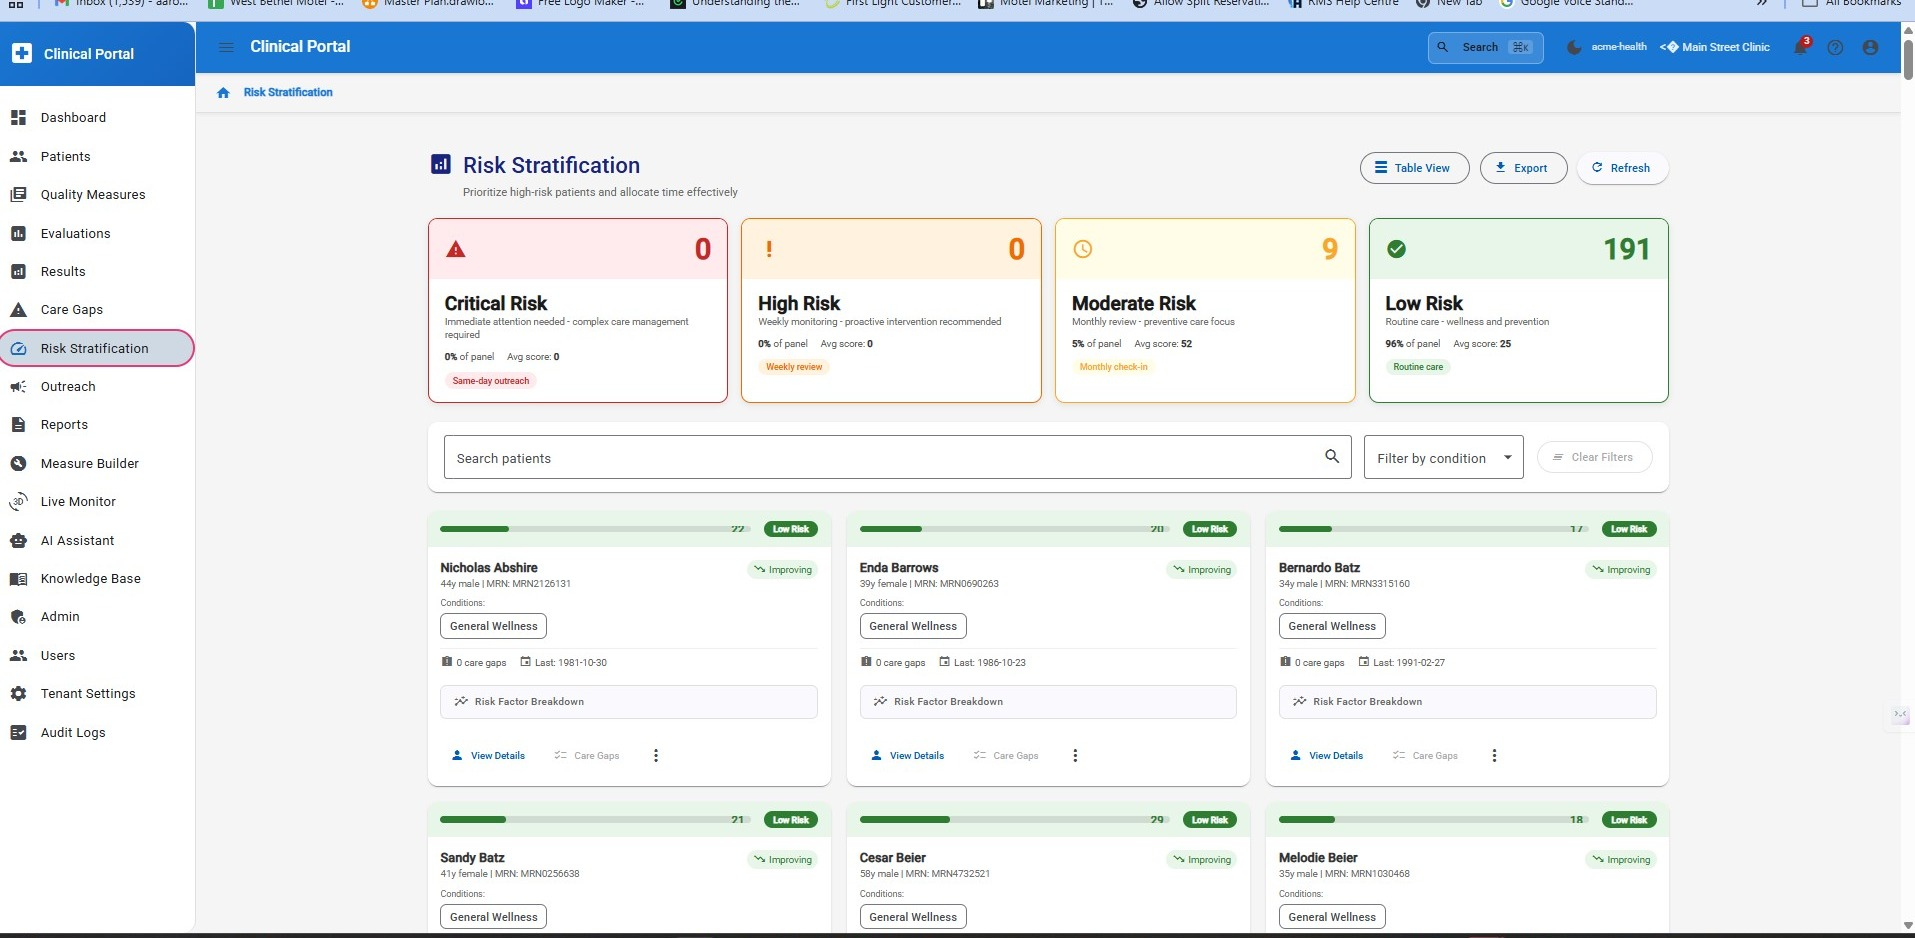
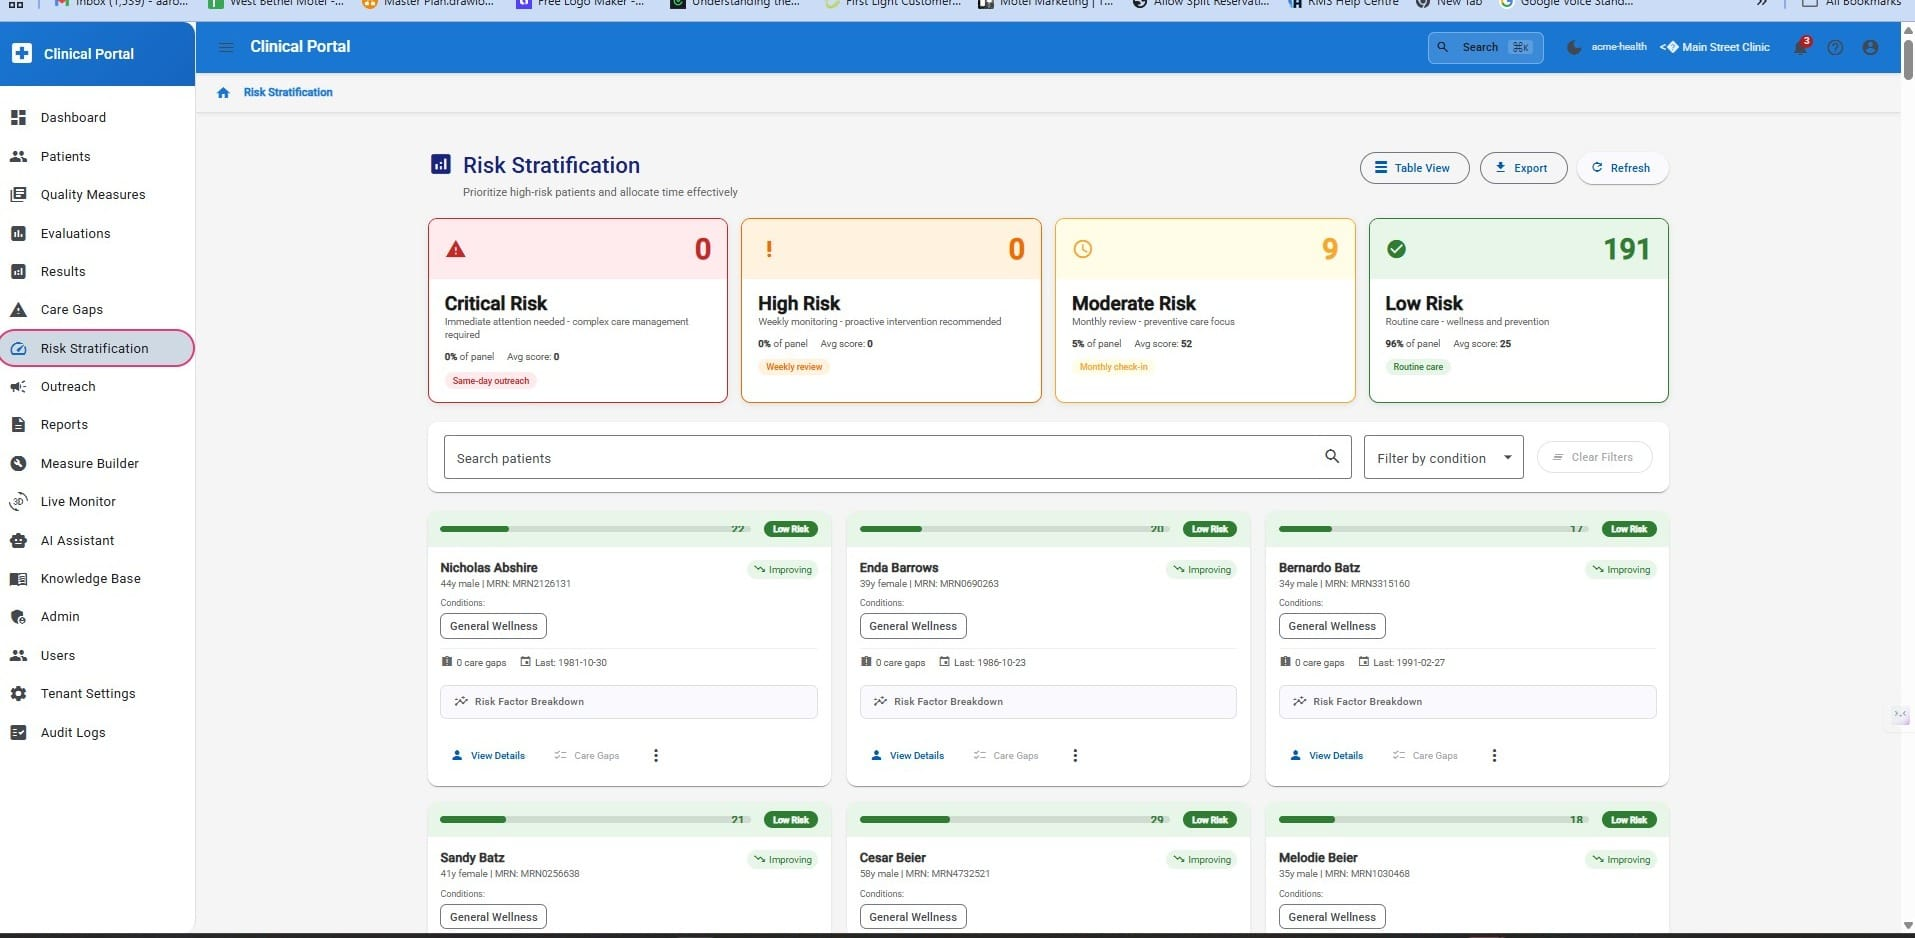
perf(landing): optimize images, fix SEO canonicals, lazy-load reCAPTCHA
Image optimization (41.5% reduction):
- Convert 19 PNGs to JPG (screenshots are photos, no transparency needed)
- Recompress 8 JPGs with mozjpeg quality 80-85
- Total: 5.02 MB → 2.94 MB (-2.09 MB)

SEO canonical fix:
- Add per-page canonical URLs to 16 subpages
- Previously all pages inherited canonical: '/' from root layout
- Search engines will now correctly index each page independently

Performance - lazy-load reCAPTCHA:
- Remove reCAPTCHA from root layout (loaded on every page, 182KB unused JS)
- Add RecaptchaScript component to form page layouts only
- Affects: /contact, /schedule, /demo, /downloads
- Non-form pages save ~182KB JS and ~340ms render time

diff --git a/landing-page-v0/lib/constants.ts b/landing-page-v0/lib/constants.ts
@@ -111,22 +111,22 @@ export const SEGMENT_SCREENSHOTS: Record<string, SegmentScreenshots[]> = {
     {
       role: 'CMO Dashboard',
       screenshots: [
-        { src: '/images/screenshots/cmo/cmo-01-dashboard.png', alt: 'CMO Dashboard overview', title: 'Executive Dashboard', description: 'Real-time quality KPIs and measure performance' },
-        { src: '/images/screenshots/cmo/cmo-02-quality-measures.png', alt: 'Quality measures list', title: 'Quality Measures', description: 'HEDIS measure library with compliance tracking' },
+        { src: '/images/screenshots/cmo/cmo-01-dashboard.jpg', alt: 'CMO Dashboard overview', title: 'Executive Dashboard', description: 'Real-time quality KPIs and measure performance' },
+        { src: '/images/screenshots/cmo/cmo-02-quality-measures.jpg', alt: 'Quality measures list', title: 'Quality Measures', description: 'HEDIS measure library with compliance tracking' },
       ],
     },
     {
       role: 'Quality Analyst',
       screenshots: [
-        { src: '/images/screenshots/quality-analyst/quality-analyst-04-run-evaluation.png', alt: 'Run evaluation', title: 'Measure Evaluation', description: 'One-click HEDIS measure evaluation' },
-        { src: '/images/screenshots/quality-analyst/quality-analyst-06-results-pass-fail.png', alt: 'Results pass/fail', title: 'Evaluation Results', description: 'Pass/fail compliance scoring with drilldowns' },
+        { src: '/images/screenshots/quality-analyst/quality-analyst-04-run-evaluation.jpg', alt: 'Run evaluation', title: 'Measure Evaluation', description: 'One-click HEDIS measure evaluation' },
+        { src: '/images/screenshots/quality-analyst/quality-analyst-06-results-pass-fail.jpg', alt: 'Results pass/fail', title: 'Evaluation Results', description: 'Pass/fail compliance scoring with drilldowns' },
       ],
     },
     {
       role: 'Data Analyst',
       screenshots: [
-        { src: '/images/screenshots/data-analyst/data-analyst-02-risk-stratification.png', alt: 'Risk stratification', title: 'Risk Stratification', description: 'Population-level risk scoring and cohort analysis' },
-        { src: '/images/screenshots/data-analyst/data-analyst-04-quality-constellation.png', alt: 'Quality constellation', title: 'Quality Constellation', description: 'Multi-dimensional measure visualization' },
+        { src: '/images/screenshots/data-analyst/data-analyst-02-risk-stratification.jpg', alt: 'Risk stratification', title: 'Risk Stratification', description: 'Population-level risk scoring and cohort analysis' },
+        { src: '/images/screenshots/data-analyst/data-analyst-04-quality-constellation.jpg', alt: 'Quality constellation', title: 'Quality Constellation', description: 'Multi-dimensional measure visualization' },
       ],
     },
   ],
@@ -134,22 +134,22 @@ export const SEGMENT_SCREENSHOTS: Record<string, SegmentScreenshots[]> = {
     {
       role: 'Provider',
       screenshots: [
-        { src: '/images/screenshots/provider/provider-01-pre-visit.png', alt: 'Pre-visit summary', title: 'Pre-Visit Summary', description: 'Care gaps and recommendations before patient arrives' },
-        { src: '/images/screenshots/provider/provider-06-care-gaps.png', alt: 'Provider care gaps', title: 'Point-of-Care Gaps', description: 'Real-time care gap alerts during patient visit' },
+        { src: '/images/screenshots/provider/provider-01-pre-visit.jpg', alt: 'Pre-visit summary', title: 'Pre-Visit Summary', description: 'Care gaps and recommendations before patient arrives' },
+        { src: '/images/screenshots/provider/provider-06-care-gaps.jpg', alt: 'Provider care gaps', title: 'Point-of-Care Gaps', description: 'Real-time care gap alerts during patient visit' },
       ],
     },
     {
       role: 'Care Manager',
       screenshots: [
-        { src: '/images/screenshots/care-manager/care-manager-02-care-gaps-table.png', alt: 'Care gaps table', title: 'Care Gap Worklist', description: 'Priority-based worklist for care gap closure' },
-        { src: '/images/screenshots/care-manager/care-manager-06-intervention-dialog.png', alt: 'Intervention dialog', title: 'Intervention Dialog', description: 'Document interventions and close gaps' },
+        { src: '/images/screenshots/care-manager/care-manager-02-care-gaps-table.jpg', alt: 'Care gaps table', title: 'Care Gap Worklist', description: 'Priority-based worklist for care gap closure' },
+        { src: '/images/screenshots/care-manager/care-manager-06-intervention-dialog.jpg', alt: 'Intervention dialog', title: 'Intervention Dialog', description: 'Document interventions and close gaps' },
       ],
     },
     {
       role: 'Admin',
       screenshots: [
-        { src: '/images/screenshots/admin/admin-05-audit-logs.png', alt: 'Audit logs', title: 'Audit Logs', description: 'HIPAA-compliant audit trail for all PHI access' },
-        { src: '/images/screenshots/admin/admin-03-user-management.png', alt: 'User management', title: 'User Management', description: 'Role-based access control and user provisioning' },
+        { src: '/images/screenshots/admin/admin-05-audit-logs.jpg', alt: 'Audit logs', title: 'Audit Logs', description: 'HIPAA-compliant audit trail for all PHI access' },
+        { src: '/images/screenshots/admin/admin-03-user-management.jpg', alt: 'User management', title: 'User Management', description: 'Role-based access control and user provisioning' },
       ],
     },
   ],
@@ -157,22 +157,22 @@ export const SEGMENT_SCREENSHOTS: Record<string, SegmentScreenshots[]> = {
     {
       role: 'Provider',
       screenshots: [
-        { src: '/images/screenshots/provider/provider-01-pre-visit.png', alt: 'Pre-visit summary', title: 'Pre-Visit Summary', description: 'Care gaps surfaced before patient arrives' },
-        { src: '/images/screenshots/provider/provider-07-care-recommendations.png', alt: 'Care recommendations', title: 'Care Recommendations', description: 'Evidence-based care recommendations at the point of care' },
+        { src: '/images/screenshots/provider/provider-01-pre-visit.jpg', alt: 'Pre-visit summary', title: 'Pre-Visit Summary', description: 'Care gaps surfaced before patient arrives' },
+        { src: '/images/screenshots/provider/provider-07-care-recommendations.jpg', alt: 'Care recommendations', title: 'Care Recommendations', description: 'Evidence-based care recommendations at the point of care' },
       ],
     },
     {
       role: 'Care Manager',
       screenshots: [
-        { src: '/images/screenshots/care-manager/care-manager-01-dashboard-overview.png', alt: 'Care manager dashboard', title: 'Care Manager Dashboard', description: 'Population overview with gap closure tracking' },
-        { src: '/images/screenshots/care-manager/care-manager-05-gap-detail.png', alt: 'Gap detail', title: 'Gap Detail', description: 'Full clinical context for care gap closure' },
+        { src: '/images/screenshots/care-manager/care-manager-01-dashboard-overview.jpg', alt: 'Care manager dashboard', title: 'Care Manager Dashboard', description: 'Population overview with gap closure tracking' },
+        { src: '/images/screenshots/care-manager/care-manager-05-gap-detail.jpg', alt: 'Gap detail', title: 'Gap Detail', description: 'Full clinical context for care gap closure' },
       ],
     },
     {
       role: 'Quality Analyst',
       screenshots: [
-        { src: '/images/screenshots/quality-analyst/quality-analyst-01-measures-list.png', alt: 'Measures list', title: 'Measure Library', description: 'Full HEDIS measure library with evaluation status' },
-        { src: '/images/screenshots/quality-analyst/quality-analyst-08-qrda-export.png', alt: 'QRDA export', title: 'QRDA Export', description: 'CMS-ready quality reporting export' },
+        { src: '/images/screenshots/quality-analyst/quality-analyst-01-measures-list.jpg', alt: 'Measures list', title: 'Measure Library', description: 'Full HEDIS measure library with evaluation status' },
+        { src: '/images/screenshots/quality-analyst/quality-analyst-08-qrda-export.jpg', alt: 'QRDA export', title: 'QRDA Export', description: 'CMS-ready quality reporting export' },
       ],
     },
   ],

diff --git a/landing-page-v0/app/platform/page.tsx b/landing-page-v0/app/platform/page.tsx
@@ -21,6 +21,7 @@ import { CAPABILITIES } from '../../lib/constants'
 export const metadata: Metadata = {
   title: 'HDIM Platform - Complete Healthcare Quality Measurement Capabilities',
   description: 'All platform capabilities: HEDIS measures, care gap detection, FHIR R4 integration, revenue cycle, custom measure builder, and enterprise security.',
+  alternates: { canonical: '/platform' },
 }
 
 const CAPABILITY_ICONS: Record<string, React.ElementType> = {
@@ -148,7 +149,7 @@ export default function PlatformPage() {
                 columns: 3,
                 screenshots: [
                   {
-                    src: "/images/dashboard-modern/07-patient-management.png",
+                    src: "/images/dashboard-modern/07-patient-management.jpg",
                     alt: "Patient Management view",
                     width: 1918,
                     height: 920,

diff --git a/landing-page-v0/app/about/page.tsx b/landing-page-v0/app/about/page.tsx
@@ -16,6 +16,7 @@ import ScreenshotGallery from '../components/ScreenshotLightbox'
 export const metadata: Metadata = {
   title: 'About Us | HDIM - Healthcare Data in Motion',
   description: 'Learn about HDIM\'s mission to build healthcare software that saves lives through better quality measurement and care gap detection.',
+  alternates: { canonical: '/about' },
 }
 
 const values = [
@@ -263,7 +264,7 @@ export default function AboutPage() {
                     description: "Urgency-sorted alerts with patient slide-out panel",
                   },
                   {
-                    src: "/images/dashboard-modern/09-reports-hub.png",
+                    src: "/images/dashboard-modern/09-reports-hub.jpg",
                     alt: "Reports Hub",
                     width: 1918,
                     height: 920,

diff --git a/landing-page-v0/app/layout.tsx b/landing-page-v0/app/layout.tsx
@@ -4,7 +4,6 @@ import Script from 'next/script'
 import { Analytics } from '@vercel/analytics/react'
 import './globals.css'
 
-const RECAPTCHA_SITE_KEY = process.env.NEXT_PUBLIC_RECAPTCHA_SITE_KEY
 const GA_ID = process.env.NEXT_PUBLIC_GA_MEASUREMENT_ID
 
 const inter = localFont({
@@ -77,12 +76,6 @@ export default function RootLayout({
               gtag('config', '${GA_ID}');
             `}</Script>
           </>
-        )}
-        {RECAPTCHA_SITE_KEY && (
-          <Script
-            src={`https://www.google.com/recaptcha/api.js?render=${RECAPTCHA_SITE_KEY}`}
-            strategy="afterInteractive"
-          />
         )}
       </body>
     </html>

diff --git a/landing-page-v0/app/schedule/layout.tsx b/landing-page-v0/app/schedule/layout.tsx
@@ -1,10 +1,12 @@
 import { Metadata } from 'next'
+import RecaptchaScript from '../components/RecaptchaScript'
 
 export const metadata: Metadata = {
   title: 'Schedule a Demo | HDIM - Healthcare Data in Motion',
   description: 'Book a 30-minute demo or 60-minute deep dive to see HDIM\'s FHIR-native quality measurement platform in action. Live care gap detection, HEDIS measures, and Star Rating optimization.',
+  alternates: { canonical: '/schedule' },
 }
 
 export default function ScheduleLayout({ children }: { children: React.ReactNode }) {
-  return children
+  return <>{children}<RecaptchaScript /></>
 }

diff --git a/landing-page-v0/app/demo/layout.tsx b/landing-page-v0/app/demo/layout.tsx
@@ -1,10 +1,12 @@
 import { Metadata } from 'next'
+import RecaptchaScript from '../components/RecaptchaScript'
 
 export const metadata: Metadata = {
   title: 'Request a Demo | HDIM - Healthcare Data in Motion',
   description: 'See HDIM in action. Request a personalized demo of our FHIR-native quality measurement platform with live care gap detection and HEDIS measure execution.',
+  alternates: { canonical: '/demo' },
 }
 
 export default function DemoLayout({ children }: { children: React.ReactNode }) {
-  return children
+  return <>{children}<RecaptchaScript /></>
 }

diff --git a/landing-page-v0/app/contact/layout.tsx b/landing-page-v0/app/contact/layout.tsx
@@ -1,10 +1,12 @@
 import { Metadata } from 'next'
+import RecaptchaScript from '../components/RecaptchaScript'
 
 export const metadata: Metadata = {
   title: 'Contact Us | HDIM - Healthcare Data in Motion',
   description: 'Get in touch with the HDIM team. Schedule a demo, ask about pricing, or learn how our FHIR-native quality platform can help your organization.',
+  alternates: { canonical: '/contact' },
 }
 
 export default function ContactLayout({ children }: { children: React.ReactNode }) {
-  return children
+  return <>{children}<RecaptchaScript /></>
 }

diff --git a/landing-page-v0/app/downloads/layout.tsx b/landing-page-v0/app/downloads/layout.tsx
@@ -1,10 +1,12 @@
 import { Metadata } from 'next'
+import RecaptchaScript from '../components/RecaptchaScript'
 
 export const metadata: Metadata = {
   title: 'Downloads | HDIM - Healthcare Data in Motion',
   description: 'Download HDIM resources including product briefs, technical documentation, and integration guides for healthcare quality measurement.',
+  alternates: { canonical: '/downloads' },
 }
 
 export default function DownloadsLayout({ children }: { children: React.ReactNode }) {
-  return children
+  return <>{children}<RecaptchaScript /></>
 }

diff --git a/landing-page-v0/app/health-systems/page.tsx b/landing-page-v0/app/health-systems/page.tsx
@@ -5,6 +5,7 @@ import { SEGMENTS } from '../../lib/constants'
 export const metadata: Metadata = {
   title: 'HDIM for Health Systems - Quality Measurement in Weeks, Not Years',
   description: 'FHIR-native quality measurement platform for hospitals, IDNs, and academic medical centers. 90-day deployment with Epic, Cerner, and Athena integration.',
+  alternates: { canonical: '/health-systems' },
 }
 
 export default function HealthSystemsPage() {

diff --git a/landing-page-v0/app/research/layout.tsx b/landing-page-v0/app/research/layout.tsx
@@ -3,6 +3,7 @@ import { Metadata } from 'next'
 export const metadata: Metadata = {
   title: 'Research & Evidence | HDIM - Healthcare Data in Motion',
   description: 'Evidence-based research on HEDIS quality measures, care gap interventions, and the ROI of real-time quality measurement in value-based care.',
+  alternates: { canonical: '/research' },
 }
 
 export default function ResearchLayout({ children }: { children: React.ReactNode }) {

diff --git a/landing-page-v0/app/explorer/layout.tsx b/landing-page-v0/app/explorer/layout.tsx
@@ -3,6 +3,7 @@ import { Metadata } from 'next'
 export const metadata: Metadata = {
   title: 'HEDIS Measure Explorer | HDIM - Healthcare Data in Motion',
   description: 'Explore HEDIS quality measures, clinical criteria, and care gap definitions. Interactive reference for healthcare quality professionals.',
+  alternates: { canonical: '/explorer' },
 }
 
 export default function ExplorerLayout({ children }: { children: React.ReactNode }) {

diff --git a/landing-page-v0/app/health-plans/page.tsx b/landing-page-v0/app/health-plans/page.tsx
@@ -5,6 +5,7 @@ import { SEGMENTS } from '../../lib/constants'
 export const metadata: Metadata = {
   title: 'HDIM for Health Plans - Close Care Gaps Before They Cost You',
   description: 'HEDIS quality measurement, care gap detection, and revenue cycle automation for Medicare Advantage, Commercial, and Medicaid managed care plans.',
+  alternates: { canonical: '/health-plans' },
 }
 
 export default function HealthPlansPage() {
